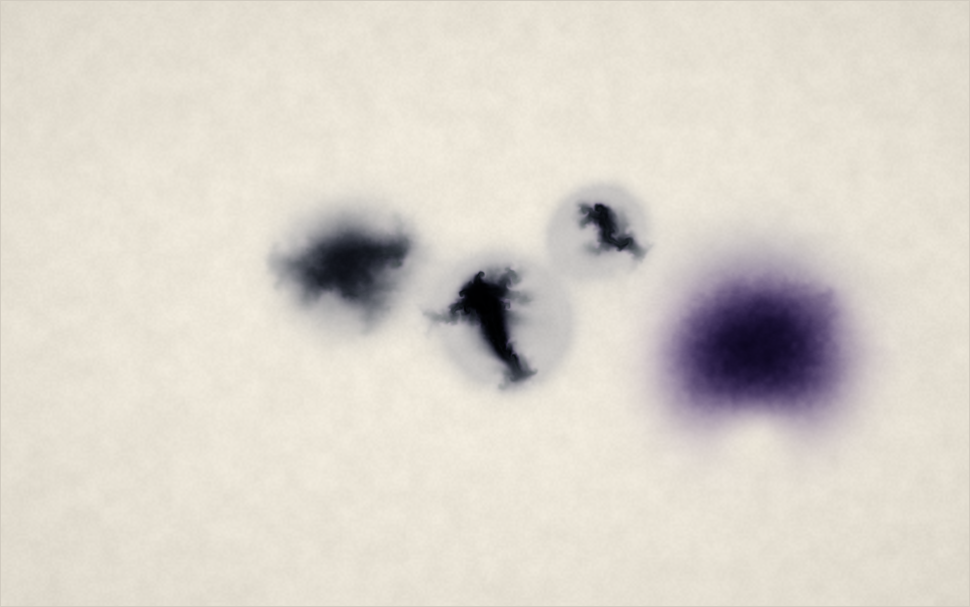
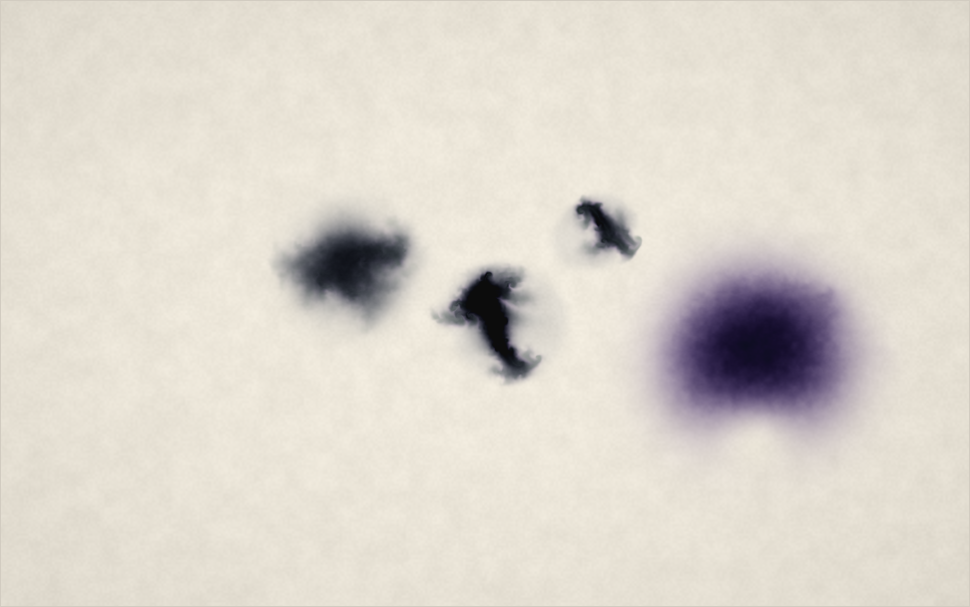
feat(nexus-hall): W3 真实 ledger 驱动墨流 + A4 透射底光夹持
- 600 条真实会话接进引擎，半径/浓淡/冲量/偏心全由 ledger 派生
- 空间映射改为有机散布（时间只决定落下顺序），修忙日堆成黑柱
- 湿润光泽 0.16→0.065 且窗口抬高：灰盘子病灶在呈现层不在 wet 场
  （连改三次 wet 场各只有微小改善，换层才对）
- A4 浓处死黑（异源视觉审计发现，我的量化门漏项）：加透射底光夹持，
  最暗通道 0→11、近黑像素 956→0；A4 已补进可复跑锚点门
- fps 3→120 不记为本次改动的增益：同时刻 agy 进程退出释放了 CPU

Changed region(s): [[0.3711, 0.2965, 0.6804, 0.6524], [0.2474, 0.3558, 0.3402, 0.5041]]

diff --git a/src/components/city/halls/nexus/ink/shaders.ts b/src/components/city/halls/nexus/ink/shaders.ts
@@ -323,15 +323,24 @@ void main() {
   vec3 absorbed = density * uStrength * uAbsorb;
   absorbed *= 1.0 + (grain - 0.5) * uGrain * clamp(c * 2.0, 0.0, 1.0);
   absorbed *= 1.0 + edge * uEdge;
-  vec3 col = paper * exp(-absorbed);
+  // 🔴 透射底光夹持：Beer–Lambert 在数学上永不到 0，但 8bit 量化会把它压成纯黑
+  // （实测 W1b 定稿图有 956 个 RGB=(0,0,0) 的死黑像素，锚点门 A4 实际失守，
+  //  是异源视觉审计发现的，我自己的量化门当时没查这一项）。
+  // 真实宣纸上最浓的焦墨仍有纸骨反光，绝对黑洞既不物理也不贵气 —— 焦墨要有光泽感。
+  vec3 col = max(paper * exp(-absorbed), uPaper * 0.055);
 
   // 白墨：漂白后的区域回到纸面之上
   float cover = clamp((1.0 - exp(-pw.a * 2.2)) * (1.0 - (grain - 0.5) * 0.35), 0.0, 1.0);
   col = mix(col, uPaper + 0.03, cover);
 
   // 湿处变暗且微冷 —— 这是「墨还没干」的唯一视觉线索，干燥后自然消失
-  float ws = smoothstep(0.02, 0.6, texture(uWet, vUv).x);
-  col *= vec3(1.0) - ws * vec3(0.16, 0.15, 0.11);
+  // 湿润光泽：「墨还没干」的唯一视觉线索。
+  // 🔴 强度必须很轻。0.16 在单滴场景下没问题，但 S1 把一百天压进十几秒时
+  // 所有滴同时湿着 —— 每滴外面套一个大小相近的灰盘子，几十滴并排就是集合级 AI 味。
+  // 之前三次都在改 wet 场本身（半径/蒸发/随机化）而收效甚微，因为病灶在**呈现层**。
+  // 同时把响应窗口抬高：只有真正很湿的地方才发暗，边缘的余湿不参与。
+  float ws = smoothstep(0.18, 0.85, texture(uWet, vUv).x);
+  col *= vec3(1.0) - ws * vec3(0.065, 0.06, 0.045);
 
   vec2 q = vUv - 0.5;
   col *= 1.0 - dot(q, q) * uVignette;

diff --git a/src/components/city/halls/nexus/ink/InkEngine.ts b/src/components/city/halls/nexus/ink/InkEngine.ts
@@ -191,7 +191,10 @@ export class InkEngine {
     //   现在 lobes 收敛且 ADVECT_VEL/GRADIENT_SUB 都补了 clamp。）
     const kick = 34 * (radius / 0.03) * vigor;
     const lobes = 5 + Math.round(radius * 40); // 大笔要更多湿斑，否则边界仍然太圆
-    this.splatWater(x, y, radius * 2.1, 0.85);
+    // 🔴 主湿区半径必须随笔变化。写死 2.1 倍时，每一滴外面都套着一个大小完全相同的
+    // 灰色圆盘 —— 单看一滴没问题，几十滴并排就是典型的集合级 AI 味（同批多件同模）。
+    // 真人落墨时纸的吸水、落笔力度、墨的含水量都不一样，晕本就该大小不一。
+    this.splatWater(x, y, radius * (1.45 + pseudo(seed, 77) * 0.95), 0.62 + pseudo(seed, 78) * 0.4);
     for (let i = 0; i < lobes; i++) {
       const a = pseudo(seed, i) * Math.PI * 2;
       const r = radius * (1.1 + pseudo(seed, i + 90) * 1.3);
